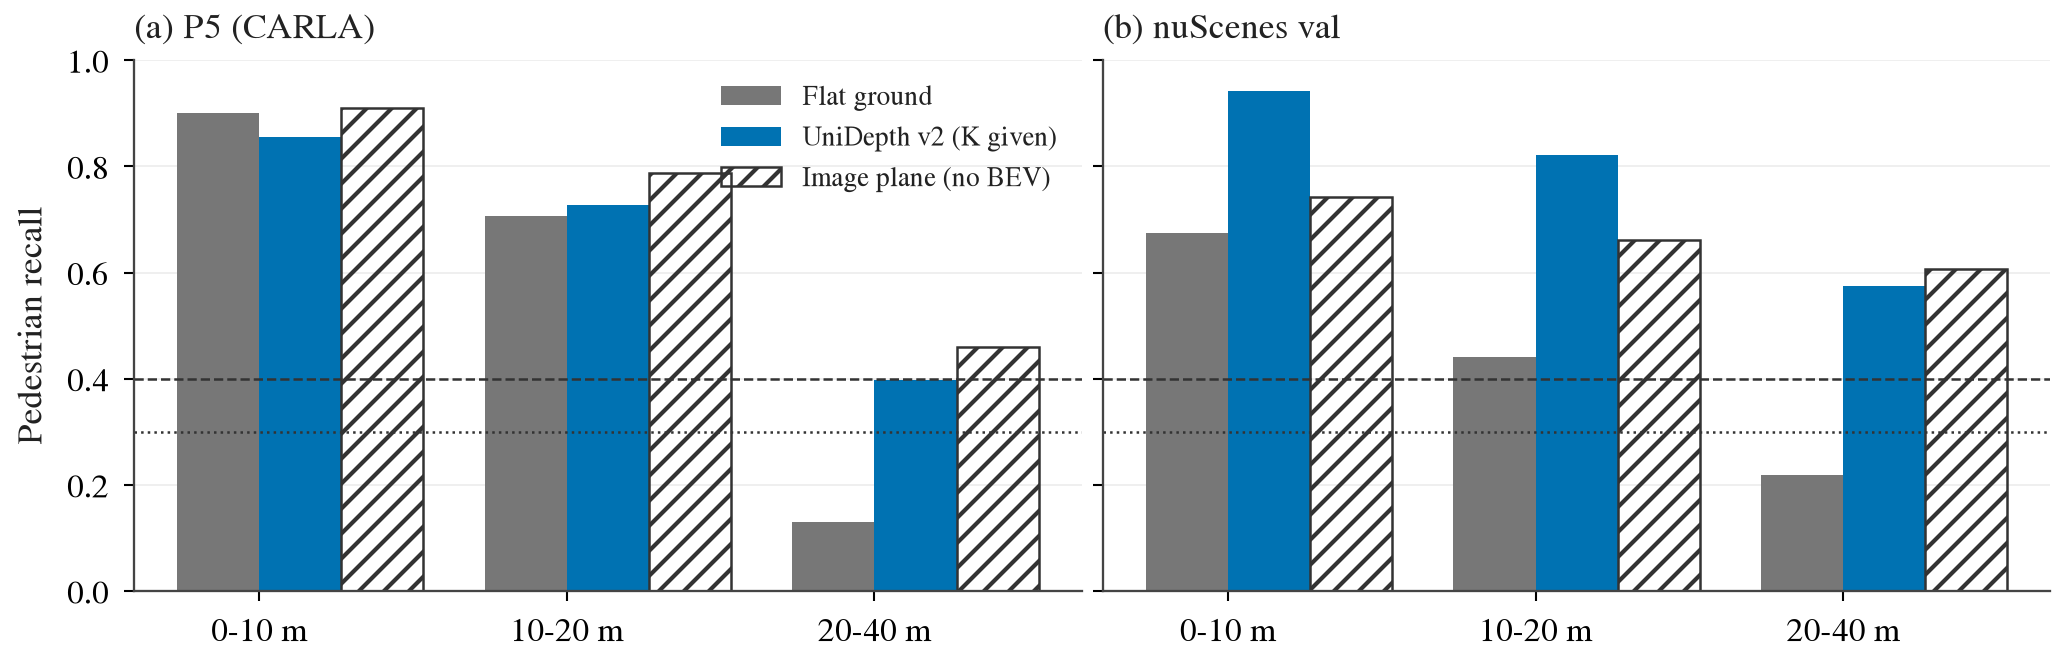
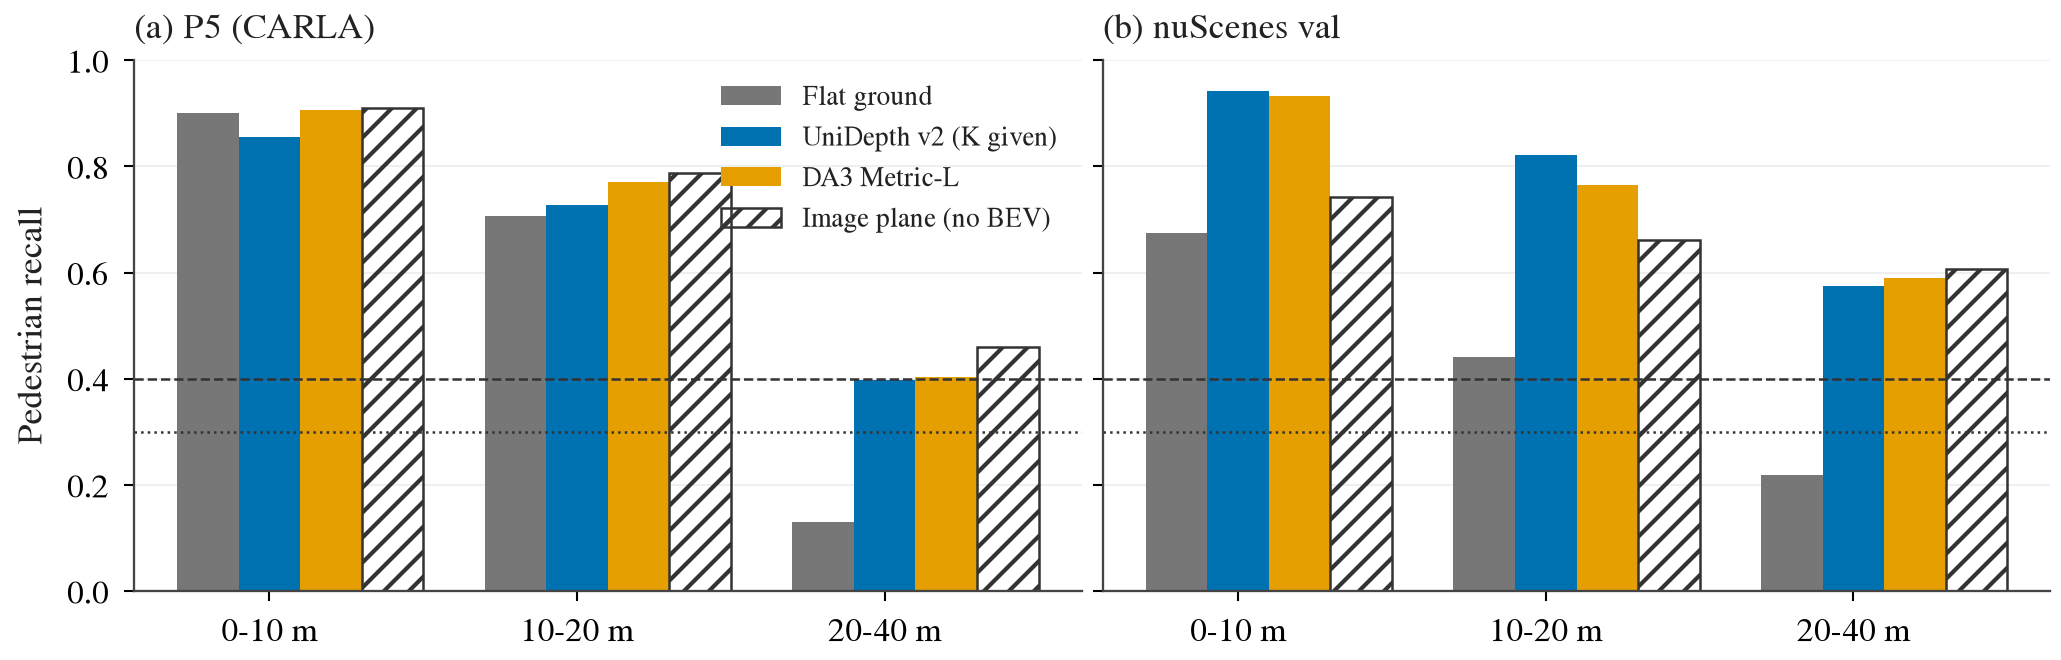
N5: DA3 metric rows (table, figure, todo, decision 45)

diff --git a/research/results/night2/N5/recall_main.md b/research/results/night2/N5/recall_main.md
@@ -1,7 +1,9 @@
 | detector    | placement   | gate   |   p5_ped_0-10 |   p5_ped_10-20 |   p5_ped_20-40 |   p5_ped_le40 |   nusc_ped_0-10 |   nusc_ped_10-20 |   nusc_ped_20-40 |   nusc_ped_le40 |   p5_haz_ped_all |   p5_haz_ped_le20 |   p5_haz_ped_le20_bev_med |   nusc_ped_prec |   p5_veh_le40 |   nusc_veh_le40 |   p5_ped_img_0-10 |   p5_ped_img_10-20 |   p5_ped_img_20-40 |   nusc_ped_img_0-10 |   nusc_ped_img_10-20 |   nusc_ped_img_20-40 | p5_verdict          | nusc_verdict        |
 |:------------|:------------|:-------|--------------:|---------------:|---------------:|--------------:|----------------:|-----------------:|-----------------:|----------------:|-----------------:|------------------:|--------------------------:|----------------:|--------------:|----------------:|------------------:|-------------------:|-------------------:|--------------------:|---------------------:|---------------------:|:--------------------|:--------------------|
+| sam31-orig  | da3         | gate   |         0.907 |          0.758 |          0.418 |         0.645 |           0.850 |            0.733 |            0.589 |           0.680 |            0.683 |             0.930 |                     0.423 |           0.597 |         0.590 |           0.671 |             0.910 |              0.796 |              0.576 |               0.657 |                0.601 |                0.565 | fixed (>= 0.40)     | fixed (>= 0.40)     |
 | sam31-orig  | flat        | gate   |         0.901 |          0.682 |          0.127 |         0.490 |           0.653 |            0.437 |            0.206 |           0.356 |            0.492 |             0.880 |                     0.465 |           0.377 |         0.676 |           0.427 |             0.910 |              0.796 |              0.576 |               0.657 |                0.601 |                0.565 | not enough (< 0.30) | not enough (< 0.30) |
 | sam31-orig  | unidepth    | gate   |         0.858 |          0.717 |          0.489 |         0.655 |           0.852 |            0.781 |            0.561 |           0.687 |            0.730 |             0.929 |                     0.606 |           0.623 |         0.567 |           0.643 |             0.910 |              0.796 |              0.576 |               0.657 |                0.601 |                0.565 | fixed (>= 0.40)     | fixed (>= 0.40)     |
+| yolo26x-640 | da3         | gate   |         0.907 |          0.770 |          0.402 |         0.640 |           0.932 |            0.765 |            0.590 |           0.704 |            0.674 |             0.932 |                     0.419 |           0.610 |         0.586 |           0.649 |             0.910 |              0.788 |              0.459 |               0.742 |                0.662 |                0.606 | fixed (>= 0.40)     | fixed (>= 0.40)     |
 | yolo26x-640 | flat        | gate   |         0.901 |          0.706 |          0.131 |         0.497 |           0.674 |            0.441 |            0.219 |           0.366 |            0.496 |             0.890 |                     0.444 |           0.365 |         0.700 |           0.447 |             0.910 |              0.788 |              0.459 |               0.742 |                0.662 |                0.606 | not enough (< 0.30) | not enough (< 0.30) |
 | yolo26x-640 | unidepth    | gate   |         0.855 |          0.727 |          0.397 |         0.612 |           0.941 |            0.821 |            0.574 |           0.721 |            0.675 |             0.931 |                     0.604 |           0.632 |         0.565 |           0.607 |             0.910 |              0.788 |              0.459 |               0.742 |                0.662 |                0.606 | in between          | fixed (>= 0.40)     |
 
@@ -9,7 +11,9 @@ fixed 2 m gate (side)
 
 | detector    | placement   | gate    |   p5_ped_0-10 |   p5_ped_10-20 |   p5_ped_20-40 |   p5_ped_le40 |   nusc_ped_0-10 |   nusc_ped_10-20 |   nusc_ped_20-40 |   nusc_ped_le40 |   p5_haz_ped_all |   p5_haz_ped_le20 |   p5_haz_ped_le20_bev_med |   nusc_ped_prec |   p5_veh_le40 |   nusc_veh_le40 |   p5_ped_img_0-10 |   p5_ped_img_10-20 |   p5_ped_img_20-40 |   nusc_ped_img_0-10 |   nusc_ped_img_10-20 |   nusc_ped_img_20-40 |
 |:------------|:------------|:--------|--------------:|---------------:|---------------:|--------------:|----------------:|-----------------:|-----------------:|----------------:|-----------------:|------------------:|--------------------------:|----------------:|--------------:|----------------:|------------------:|-------------------:|-------------------:|--------------------:|---------------------:|---------------------:|
+| sam31-orig  | da3         | fixed2m |         0.907 |          0.758 |          0.317 |         0.598 |           0.850 |            0.733 |            0.468 |           0.624 |            0.621 |             0.930 |                     0.423 |           0.517 |         0.484 |           0.564 |             0.910 |              0.796 |              0.576 |               0.657 |                0.601 |                0.565 |
 | sam31-orig  | flat        | fixed2m |         0.901 |          0.682 |          0.109 |         0.482 |           0.653 |            0.437 |            0.148 |           0.329 |            0.483 |             0.880 |                     0.465 |           0.331 |         0.540 |           0.364 |             0.910 |              0.796 |              0.576 |               0.657 |                0.601 |                0.565 |
 | sam31-orig  | unidepth    | fixed2m |         0.858 |          0.717 |          0.408 |         0.616 |           0.852 |            0.780 |            0.446 |           0.634 |            0.689 |             0.929 |                     0.606 |           0.534 |         0.462 |           0.532 |             0.910 |              0.796 |              0.576 |               0.657 |                0.601 |                0.565 |
+| yolo26x-640 | da3         | fixed2m |         0.907 |          0.770 |          0.305 |         0.594 |           0.932 |            0.765 |            0.480 |           0.653 |            0.615 |             0.932 |                     0.419 |           0.543 |         0.481 |           0.552 |             0.910 |              0.788 |              0.459 |               0.742 |                0.662 |                0.606 |
 | yolo26x-640 | flat        | fixed2m |         0.901 |          0.706 |          0.107 |         0.486 |           0.674 |            0.441 |            0.170 |           0.343 |            0.485 |             0.890 |                     0.444 |           0.330 |         0.606 |           0.383 |             0.910 |              0.788 |              0.459 |               0.742 |                0.662 |                0.606 |
 | yolo26x-640 | unidepth    | fixed2m |         0.855 |          0.727 |          0.320 |         0.575 |           0.941 |            0.821 |            0.459 |           0.668 |            0.636 |             0.931 |                     0.604 |           0.559 |         0.457 |           0.497 |             0.910 |              0.788 |              0.459 |               0.742 |                0.662 |                0.606 |

diff --git a/research/decisions.md b/research/decisions.md
@@ -3166,7 +3166,7 @@ NAVSIM 上 g₂ 开度 0.43（直行 0.50，navtrain 标签里接近车辆占 40
 **N5 补一行（2026-09-26，[夜间队列 2](../todos/2026-09-26-night-queue-2.md) N5，判据先于数字；只改测量，不进模型）**：把平地抬升换成按相机内参的单目 metric depth（UniDepth v2 ViT-L，主读数；接地点沿射线放到预测深度），
 同一批 YOLO26x-640 检测、同一套评测，20–40 m 行人 BEV 召回 **nuScenes 0.22 → 0.57（过 0.40 线）、P5 0.13 → 0.397（差 0.003 到线，登记的「之间」）**；近处不坏（nuScenes 0–10 m 0.67 → 0.94，P5 0.90 → 0.85），P5 hazard 行人全部 0.50 → 0.68。
 所以「缺口在放置」在真实相机上得到了修法（单目 metric depth 给内参就够，不需要地面高度）；CARLA 上修回大半，残差来自 P5 上深度整体偏近 10–15%（推测是渲染域差）。SAM 3.1 检测 + 同一深度 P5 0.49 / nuScenes 0.56（副读数）。
-DA3METRIC-LARGE 副读数待补。表：[results/night2/N5/](results/night2/N5/)，图：[night2-n5-depth-recall](figs/night2-n5-depth-recall.png)。
+副读数 DA3METRIC-LARGE（焦距换算成米，2026-09-26 box 重启后补齐）同向：YOLO26x-640 检测上 20–40 m 行人 **P5 0.402、nuScenes 0.590**，两个数据集都过 0.40 线，近处 P5 0.91 / nuScenes 0.93；主读数（UniDepth v2）与副读数只在 P5 这一格跨线（0.397 对 0.402），判格按登记仍以主读数写「P5 之间」。两个互相独立的深度模型给出几乎相同的数，说明 P5 的残差不是某一个模型的问题。表：[results/night2/N5/](results/night2/N5/)，图：[night2-n5-depth-recall](figs/night2-n5-depth-recall.png)。
 **会推翻或推进本条的证据**：在 YOLO26 状态上复跑 Q6-SAM 的规则门，行人 family 翻转不低于 SAM 状态（推进：可以直接替换）；给接地点加按相机标定尺度的深度或地面高度后，P5 / nuScenes 行人召回向 oracle 高度上界（0.70–0.81 / 0.52–0.67）靠拢（推进结构化感知通道）。
 
 ## 46. 多榜前 10 的交集：没有一个方法族同时在真实数据开环榜和 CARLA 闭环榜上都进前 10；交集由训练数据生态和输入契约决定，不是能力信号（**待定**）
